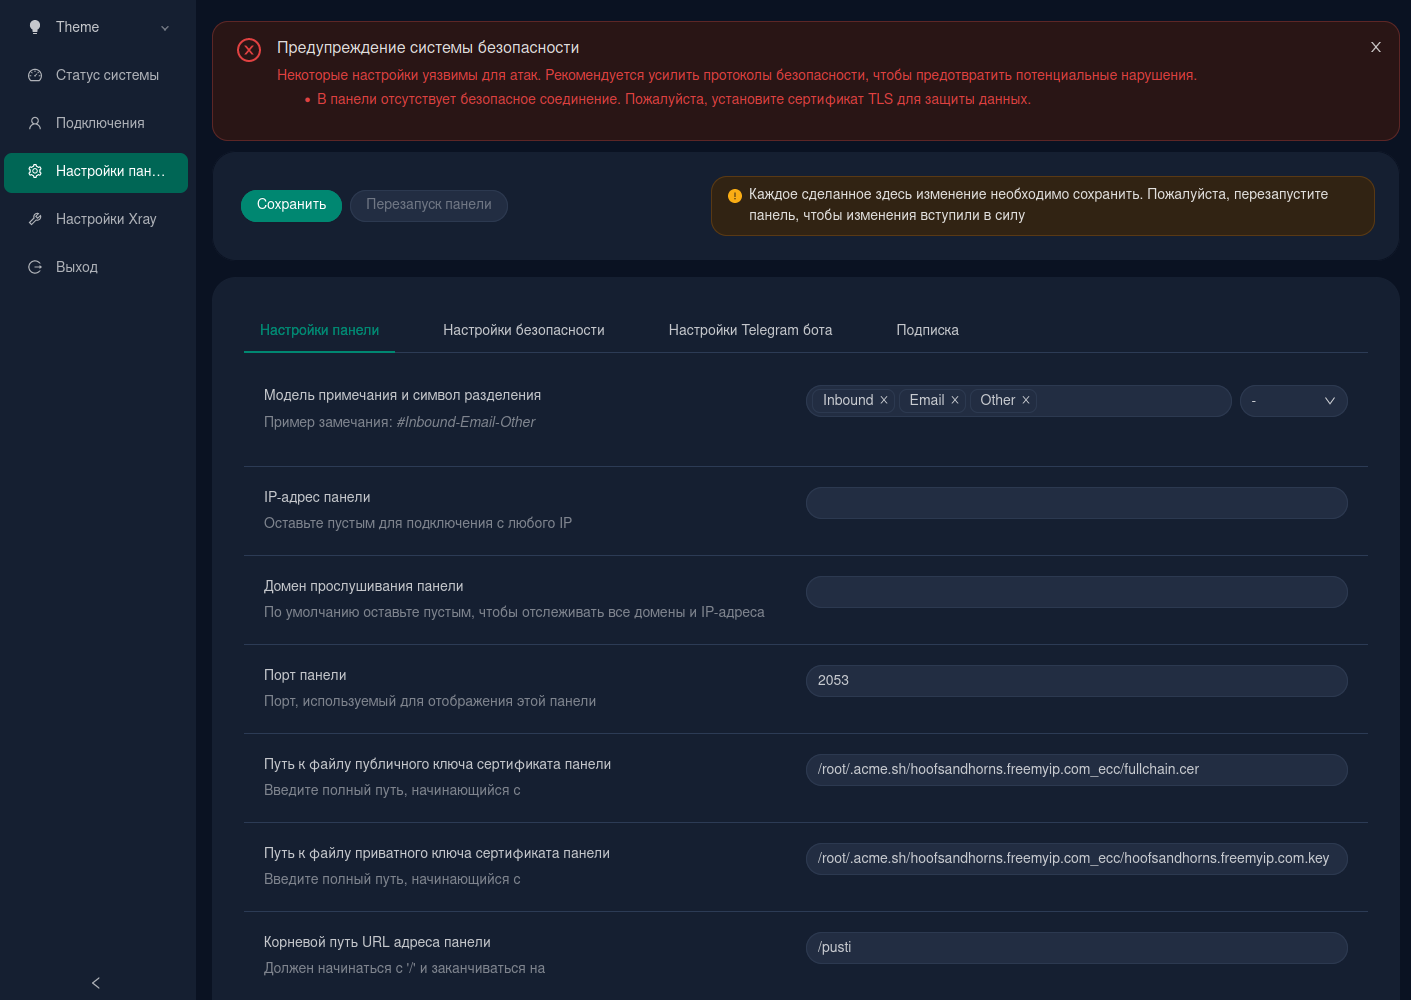
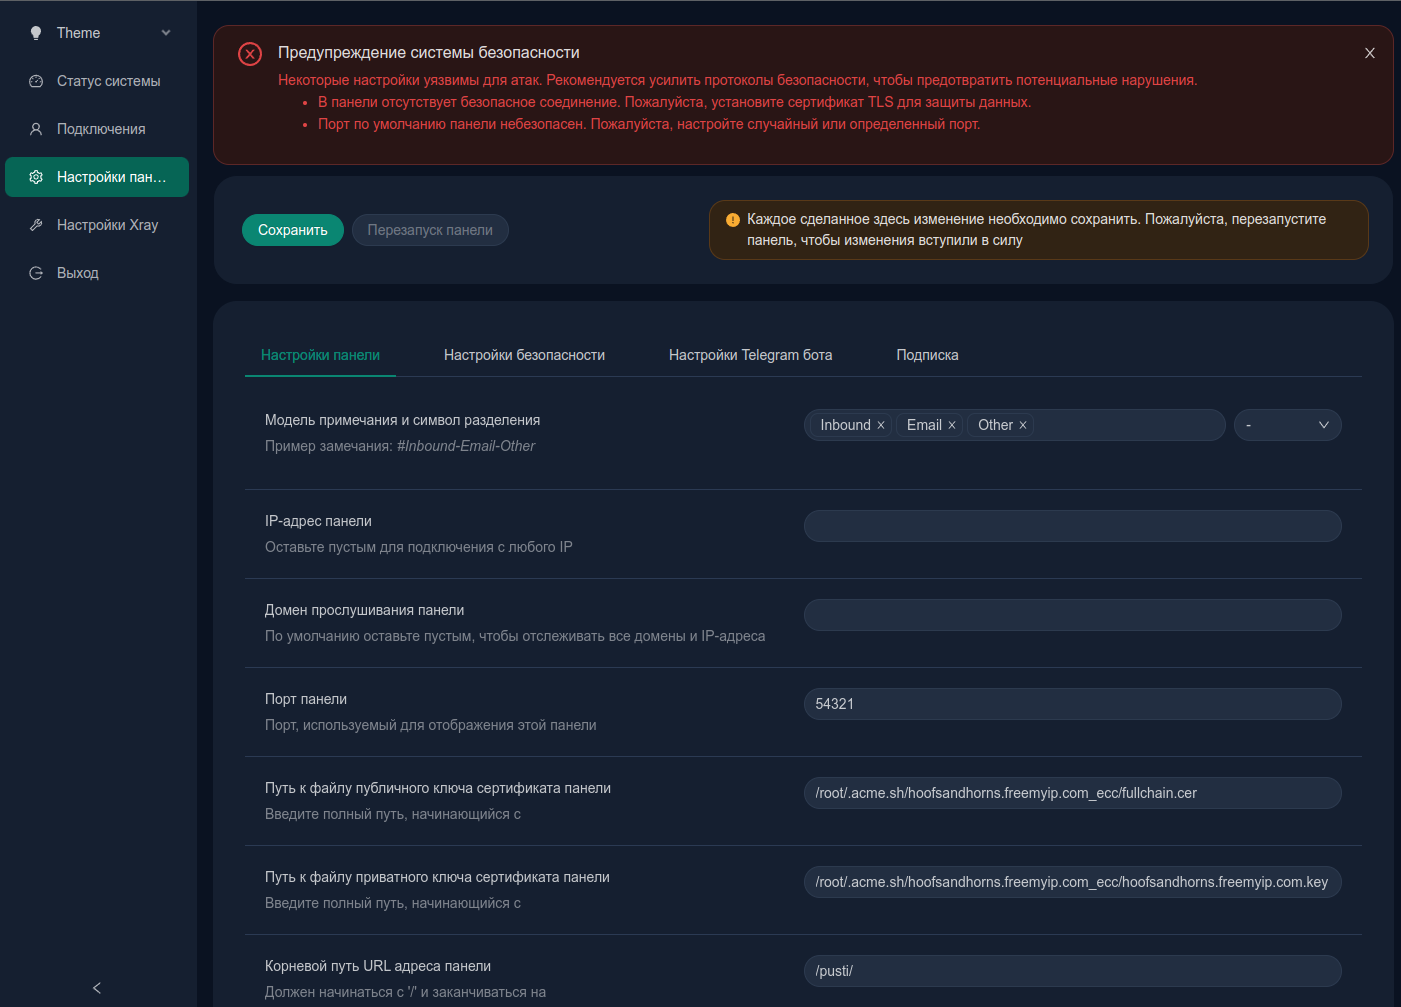
vault backup: 2024-06-02 15:10:59

diff --git a/Security/Keenetic/Установка Vless (3X-UI, Entware, Xkeen, Xray).md b/Security/Keenetic/Установка Vless (3X-UI, Entware, Xkeen, Xray).md
@@ -256,6 +256,7 @@ drwxr-xr-x 3 root root 4.0K Jun  2 00:23 ..
 
 Возвращаемся в браузер в панель 3X-UI, переходим в `Настройки панели`
 
+- `Порт` меняем на нестандартный, например `54321`
 - В поле `Путь к файлу публичного ключа сертификата панели` вставляем путь из терминала `/root/.acme.sh/hoofsandhorns.freemyip.com_ecc/fullchain.cer` 
 - В поле `Путь к файлу приватного ключа сертификата панели` соответственно путь `/root/.acme.sh/hoofsandhorns.freemyip.com_ecc/hoofsandhorns.freemyip.com.key`
 - В поле `Корневой путь URL адреса панели` для большей безопасности вставляем  какое-нибудь секретное слово, например `/pusti`
@@ -264,7 +265,7 @@ drwxr-xr-x 3 root root 4.0K Jun  2 00:23 ..
 
 >Сохраняем и перезапускаем панель 3X-UI, наш адрес теперь
 ```http
-https://hoofsandhorns.freemyip.com:2053/pusti/panel/settings
+https://hoofsandhorns.freemyip.com:54321/pusti/panel/settings
 ```
 
 >Далее необходимо создать подключение, выбираем `Добавть подключение`, на вкладке `Подключения`
